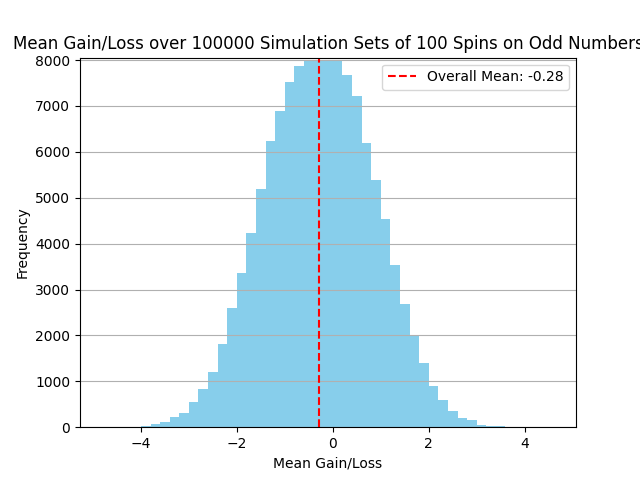
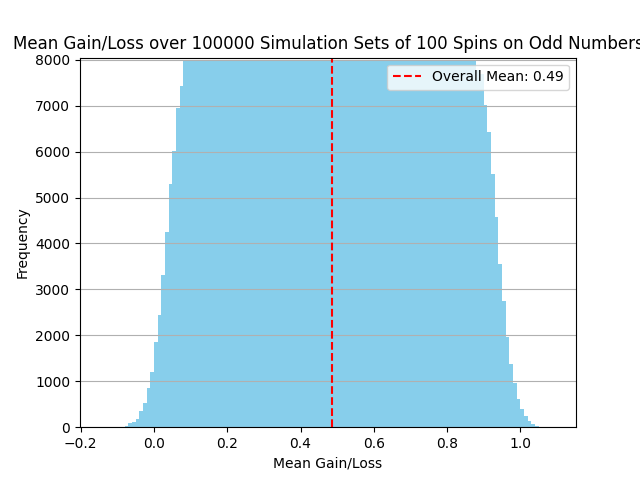
changed for roulette binomial

diff --git a/roulette.py b/roulette.py
@@ -1,68 +1,50 @@
-"""
-Author: Ilwad Issa
-Description: 
-This Python script simulates betting on odd numbers in a standard roulette game where the numbers range from 1 to 36. 
-The simulation involves num_sets sets of num_simulations_per_set spins each, with a betting amount of $bet on odd numbers. 
-It calculates the mean gain/loss for each set of spins and visualizes the frequency distribution of these mean gains/losses.
-We can observe that the average gain is generally average as it follows a normal distribution of mean -0.26 for bets of 10$.
-The moral of the story : casino always wins on the long run.
-Date : 26/12/2023
-"""
-
 import random
 import matplotlib.pyplot as plt
-from collections import Counter
+import seaborn as sns
 
 def roulette_spin():
     return random.randint(0, 36)  # Simulating numbers on a 37-number roulette wheel
 
 def parity_check(number):
     return number % 2 == 0 and number != 0   # Check if number is even
-    # return number % 2 != 0   # Check if number is odd
 
-def simulate_roulette(num_spins, bet_amount):
+def simulate_roulette(num_spins):
     gains = []
 
     for _ in range(num_spins):
         spin_result = roulette_spin()
 
         if parity_check(spin_result):
-            gains.append(bet_amount)  # If the result is even/odd, win the bet amount
+            gains.append(1)  # If the result is even/odd, the player wins 1
         else:
-            gains.append(-bet_amount)  # If not, lose the bet amount
+            gains.append(0)  # If not, the player wins 0
 
     return sum(gains) / num_spins  # Return the mean gain for these spins
 
 # Simulating 100000 sets of 100 spins each
 num_simulations_per_set = 100
 num_sets = 100000
-bet = 10
 
 mean_gains_over_sets = []
 
 for _ in range(num_sets):
-    mean_gain = simulate_roulette(num_simulations_per_set, bet)
+    mean_gain = simulate_roulette(num_simulations_per_set)
     mean_gains_over_sets.append(mean_gain)
 
-# Count the frequency of each mean gain
-mean_gain_counts = dict(Counter(mean_gains_over_sets))
-
-# Plotting the frequency of mean gains
-plt.bar(mean_gain_counts.keys(), mean_gain_counts.values(), color='skyblue')
+# Using Seaborn to plot kernel density estimation (KDE) instead of bar plot
+sns.kdeplot(mean_gains_over_sets, color='skyblue', shade=True)
 
 # Calculate the overall mean gain
 overall_mean_gain = sum(mean_gains_over_sets) / num_sets
 
-# Plotting the overall mean gain as a horizontal line
+# Plotting the overall mean gain as a vertical line
 plt.axvline(x=overall_mean_gain, color='red', linestyle='--', label=f"Overall Mean: {overall_mean_gain:.2f}")
 plt.xlabel('Mean Gain/Loss')
-plt.ylabel('Frequency')
-plt.title(f'Mean Gain/Loss over {num_sets} Simulation Sets of {num_simulations_per_set} Spins on Odd Numbers')
+plt.ylabel('Density')
+plt.title(f'Distribution of Mean Gain/Loss over {num_sets} Sets of {num_simulations_per_set} Spins on Odd Numbers')
 plt.legend()
 plt.grid(axis='y')
 
-# Setting y-axis limits to display the entire frequency range
-plt.ylim(0, max(mean_gain_counts.values()) + 50)
-plt.savefig(f"roulette_{num_sets}_sets_{num_simulations_per_set}_odd_numbers.png")
+plt.savefig(f"roulette_{num_sets}_sets_{num_simulations_per_set}_odd_numbers_smooth.png")
 
 plt.show()
